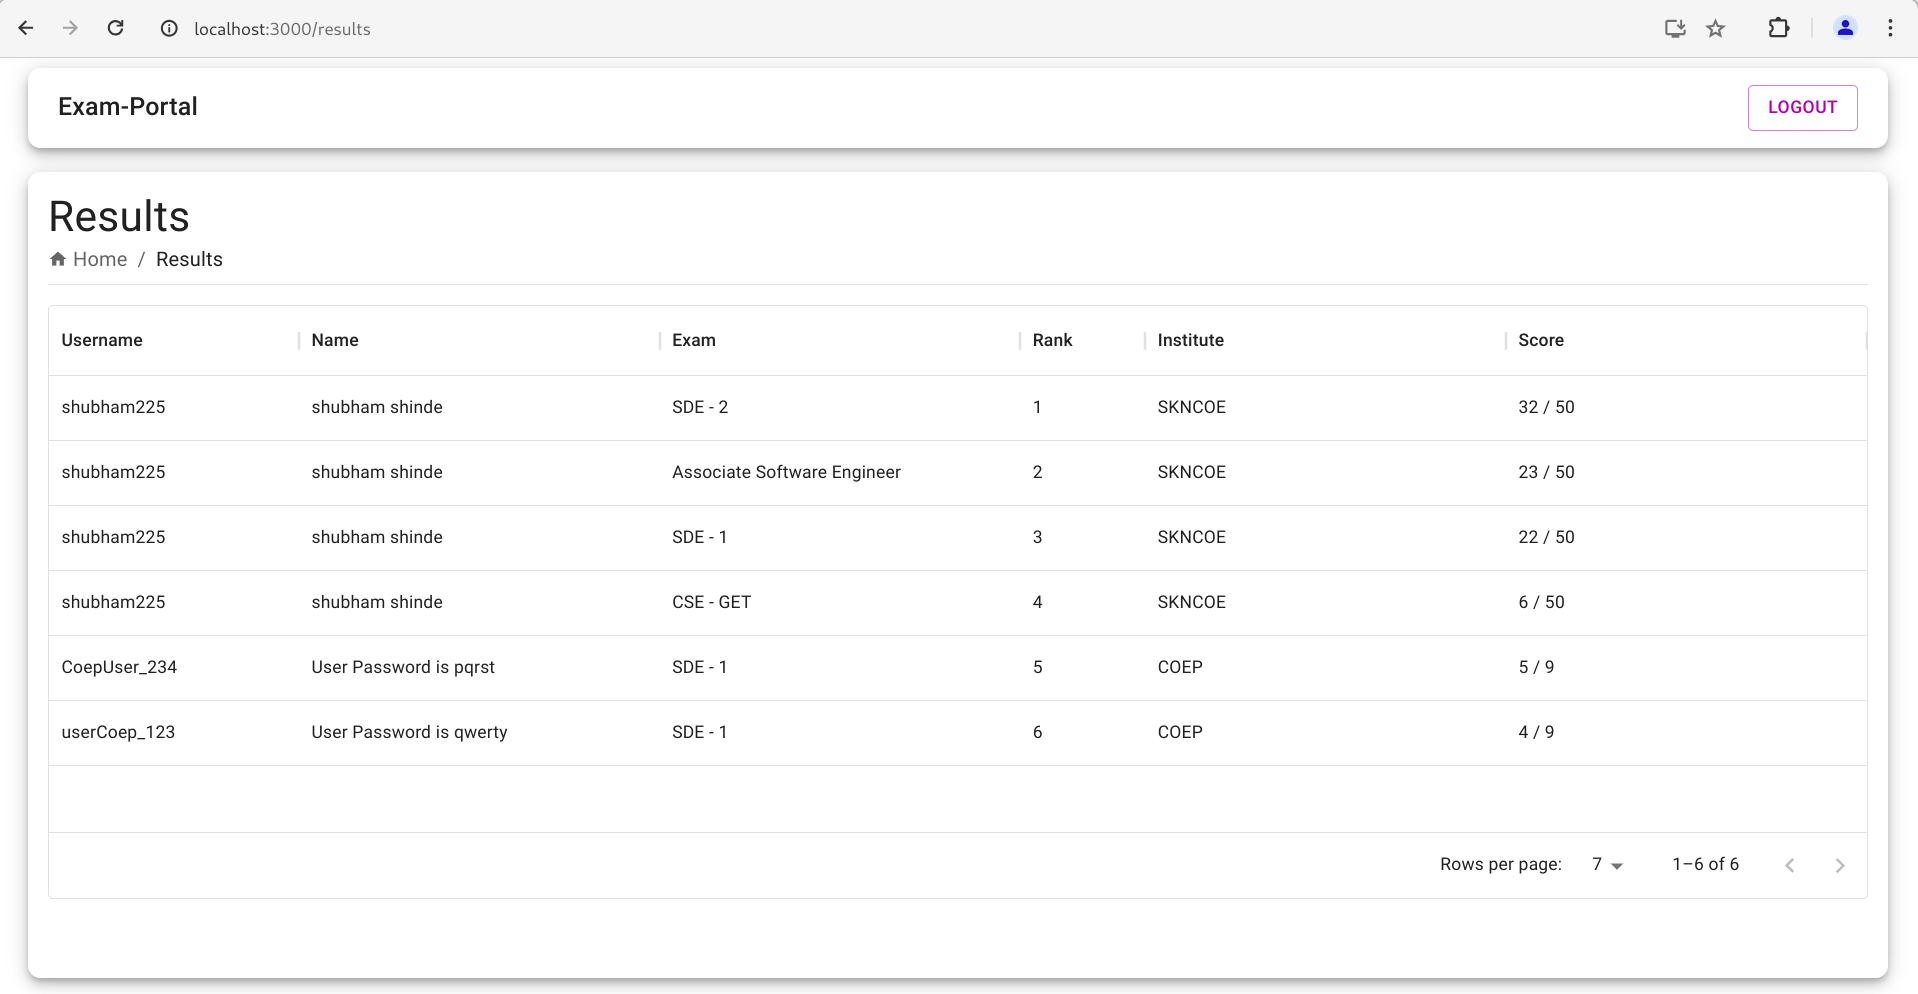
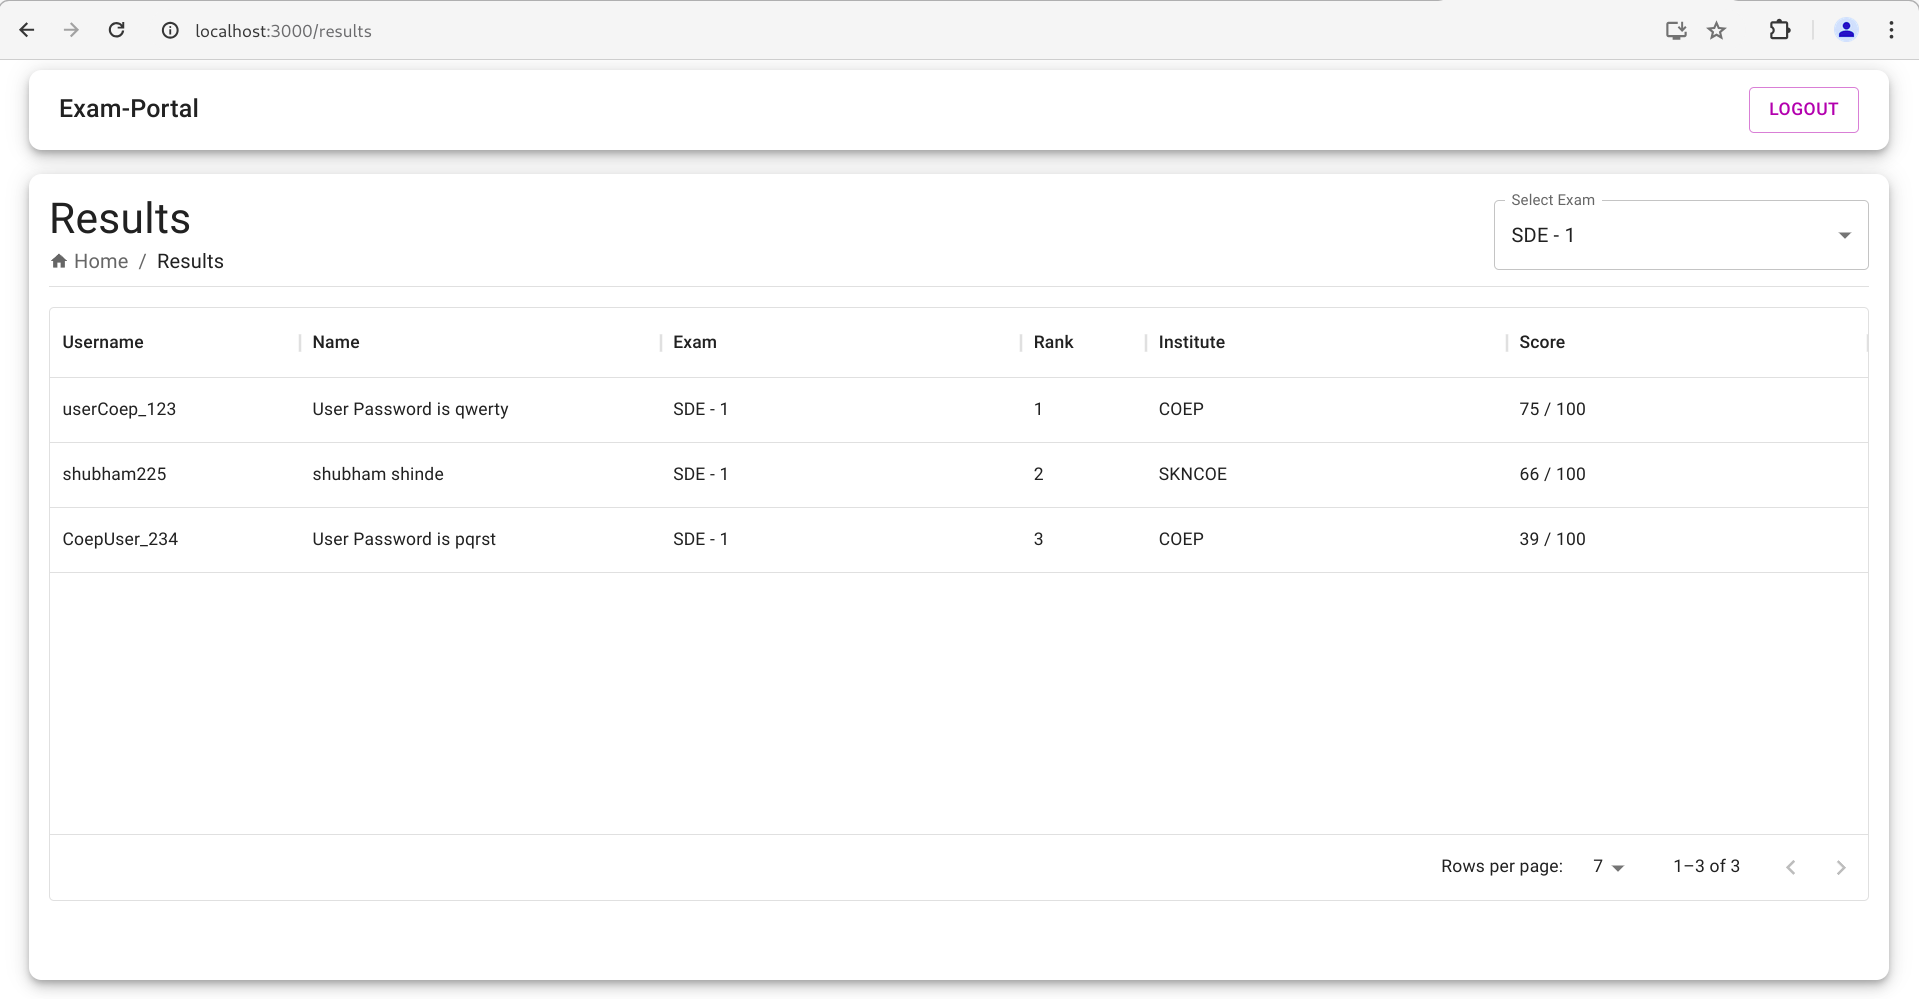
Ranking done based on Exam name

diff --git a/src/services/AuthService.js b/src/services/AuthService.js
@@ -17,21 +17,6 @@ function loginWithEmailIdPassword(credentials) {
     });
 }
 
-function logout(userId) {
-    return new Promise((resolve, reject) => {
-        // TODO : IMPLEMENT LOGOUT AT BACKEND
-        setTimeout(() => {
-            console.log("Logging out... : " + userId);
-
-            if(userId) {
-                resolve(userId);
-            }else {
-                reject({});
-            }
-        },1000)
-    });
-}
-
 function registerNewUser(userData) {
     return new Promise(async (resolve, reject) => {
 
@@ -75,7 +60,6 @@ function isUserAdmin() {
 const AuthService = {
     loginWithEmailIdPassword,
     registerNewUser,
-    logout,
     isUserAdmin,
     getUserId,
     getUserRoles

diff --git a/src/pages/Results.jsx b/src/pages/Results.jsx
@@ -62,7 +62,6 @@ function Results() {
     }, [])
 
     React.useEffect(() => {
-      console.log(rowsBackup.current);
       let rowsBackupData = rowsBackup.current;
       let filteredRows = rowsBackupData.filter((row) => row.examName == filterValue);
       setRows(filteredRows);

diff --git a/src/components/dialog/SelectUsersDialog.jsx b/src/components/dialog/SelectUsersDialog.jsx
@@ -59,8 +59,6 @@ export default function SelectUsersDialog(props) {
     }, [])
 
     const onButtonClick = () => {
-        console.log("Selected Rows", selectedRows);
-        console.log("Exam Details : ", exam);
         assignExamToStudents(exam.id, selectedRows);
     };
 
